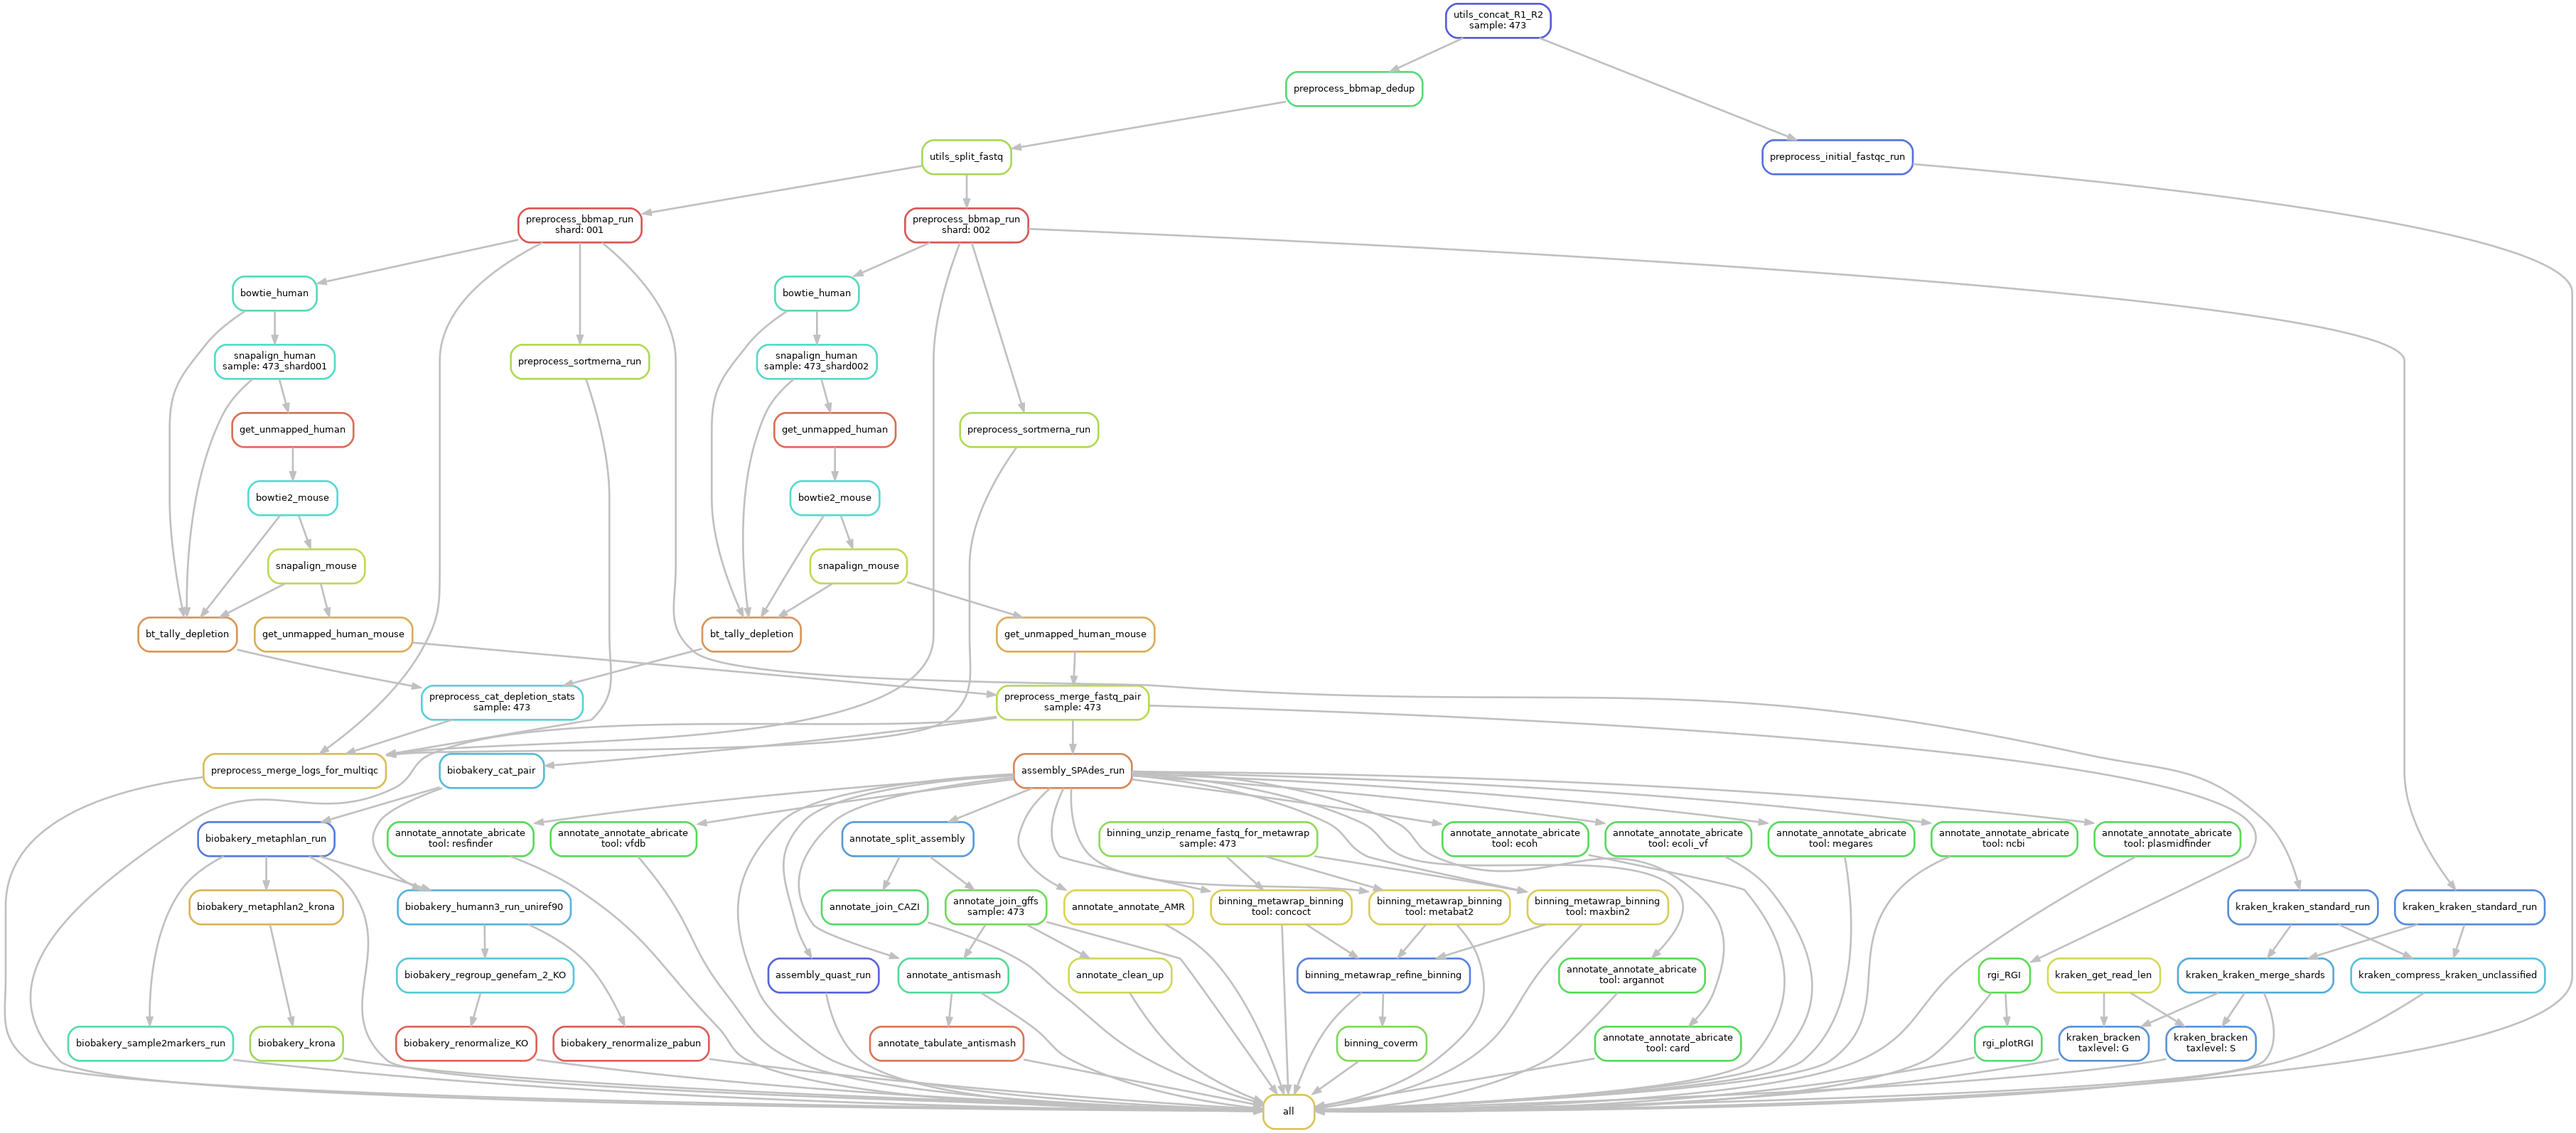
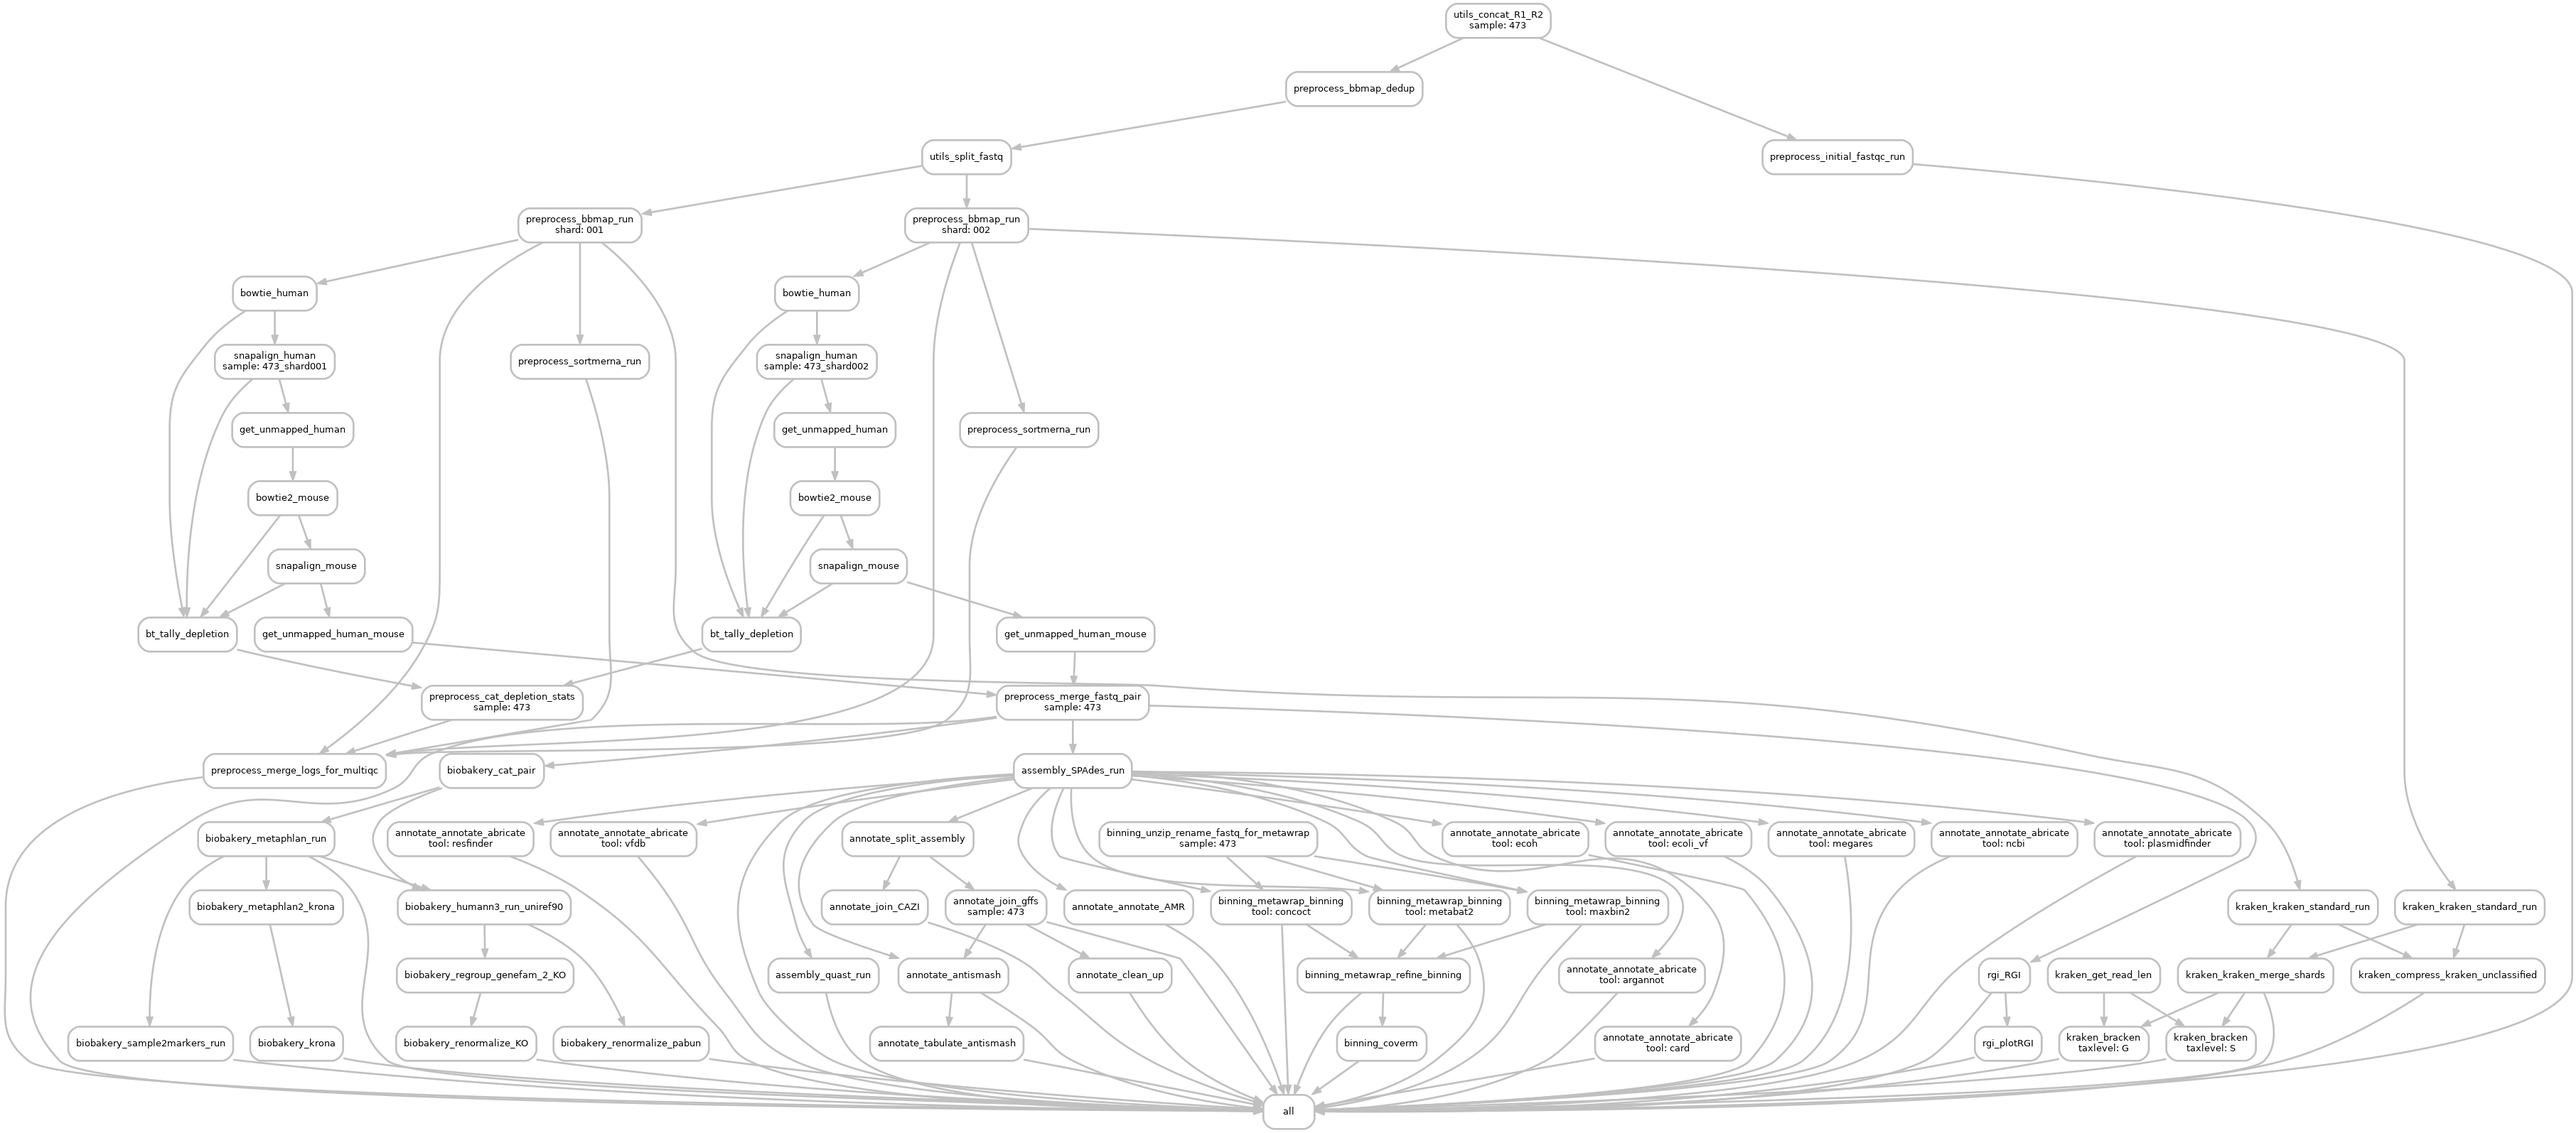
change dag colors to grey for easier diffs

Changed region(s): [[0.2183, 0.1843, 0.2494, 0.215]]

diff --git a/development.md b/development.md
@@ -40,3 +40,4 @@ The `test.sh` can also be used to update the figures included in the README by r
 
 ```
 bash test.sh figs tiny
+```
